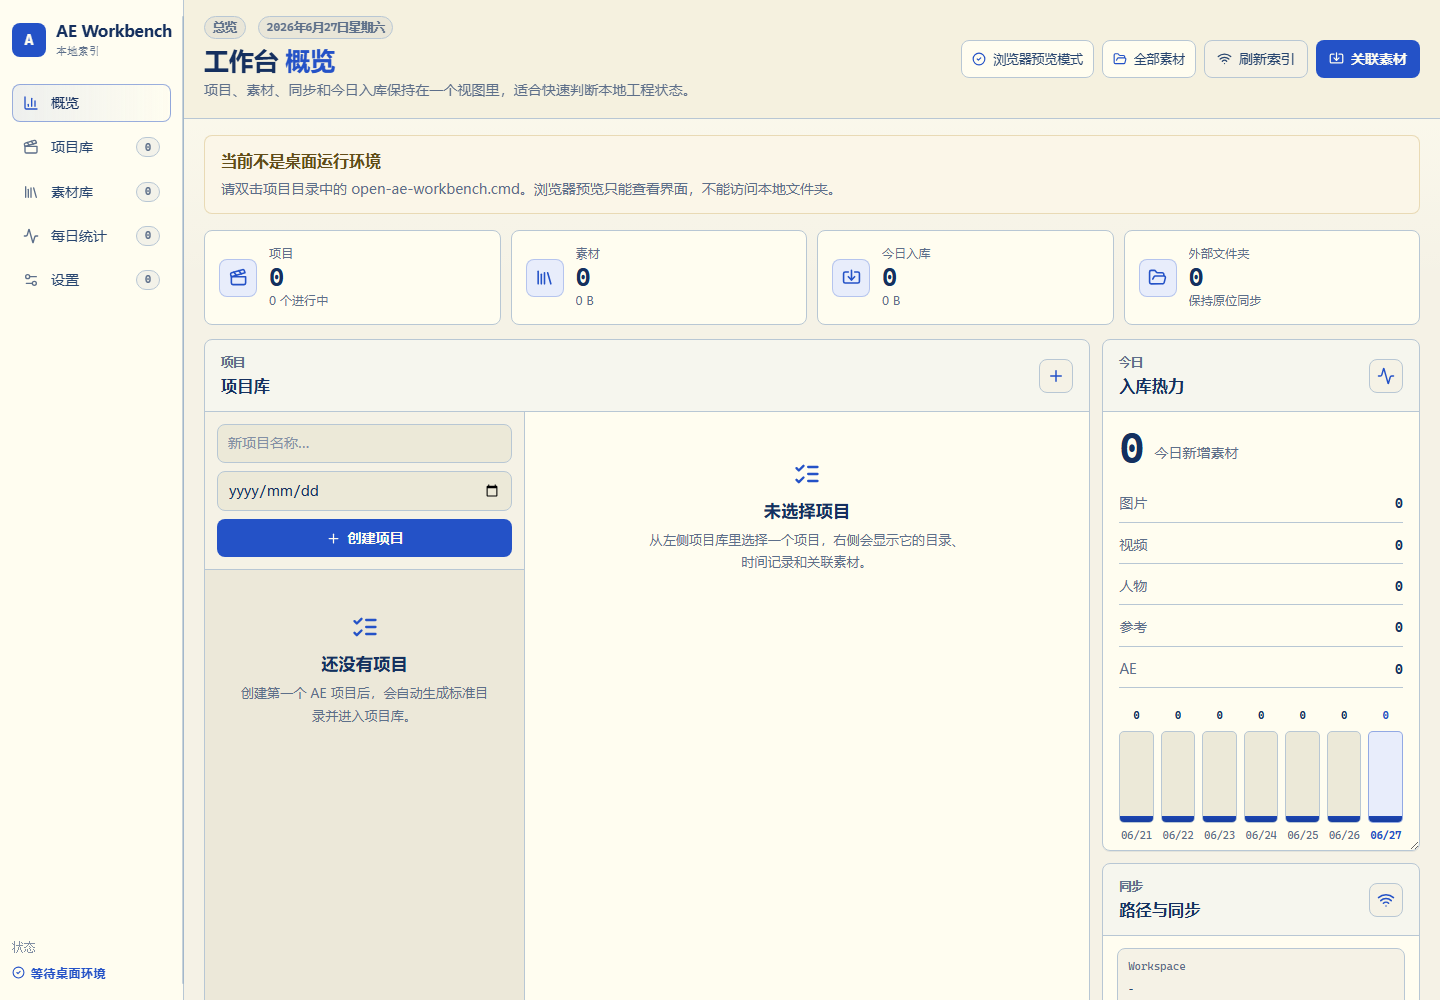
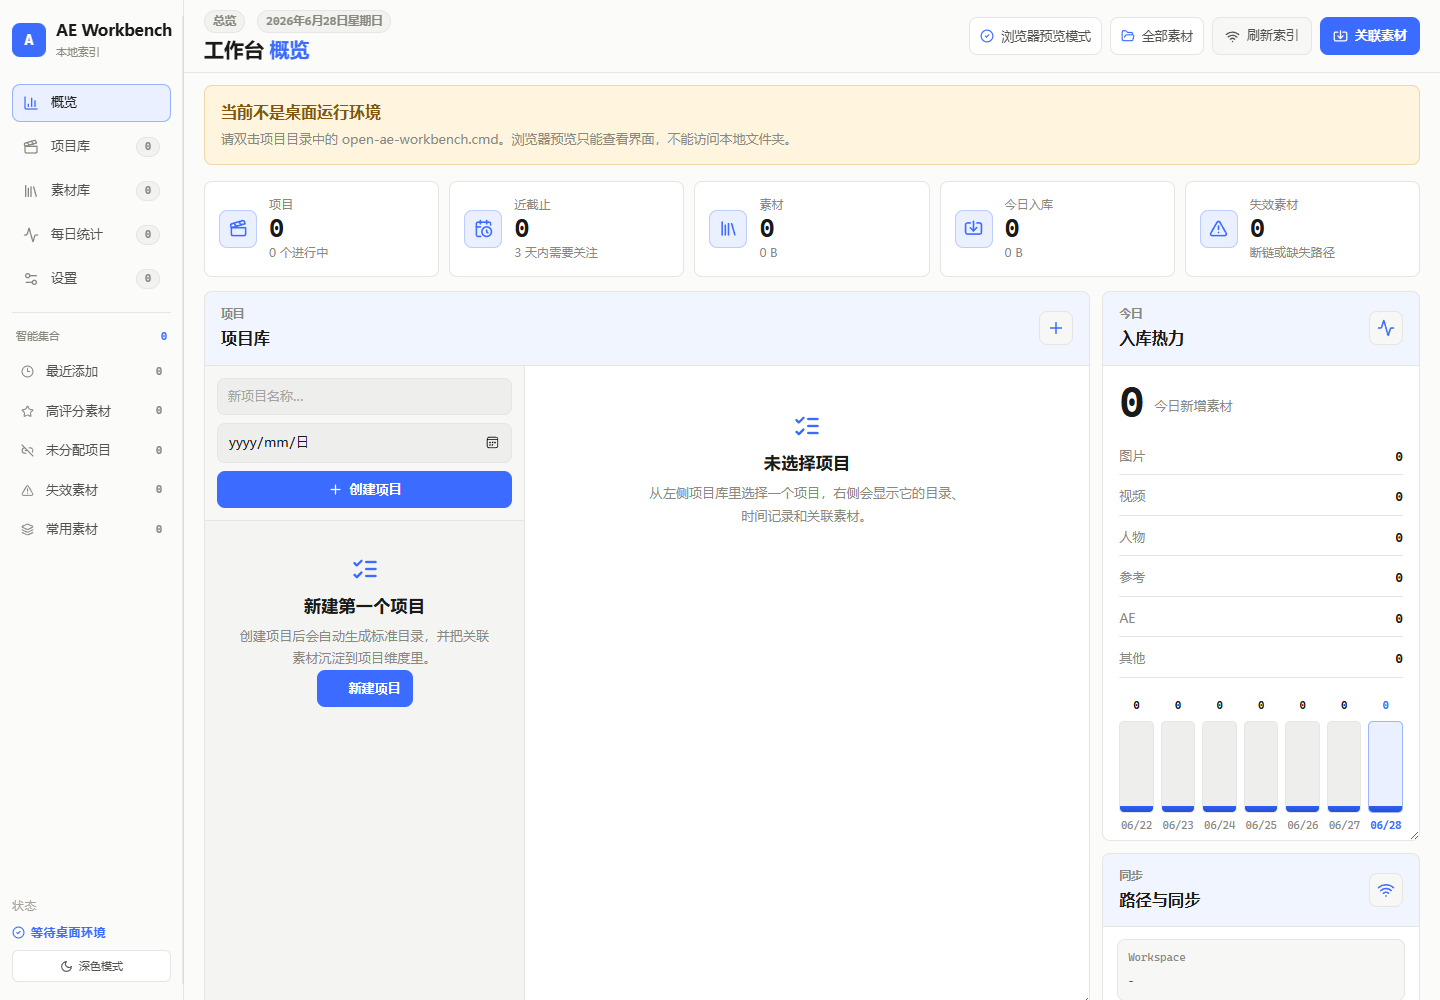
update readme homepage

diff --git a/README.md b/README.md
@@ -3,20 +3,31 @@
 [![CI](https://github.com/Saidyo/ae-workbench/actions/workflows/ci.yml/badge.svg)](https://github.com/Saidyo/ae-workbench/actions/workflows/ci.yml)
 [![License: MIT](https://img.shields.io/badge/License-MIT-green.svg)](LICENSE)
 
-AE Workbench 是一个面向 After Effects 创作者的本地桌面工作台，用来统一管理 AE 项目、人物立绘、图片素材、视频素材、音频、PSD、模板、交付文件和 Eagle 素材库信息。
+AE Workbench 是一个面向 After Effects 创作者的本地桌面工作台，也是一层轻量的「项目记忆层」：它帮你记住每个项目引用了哪些素材、哪些素材曾经用在哪些项目里，以及素材库最近发生了什么变化。
 
 它的设计目标是“本地优先”：素材仍然留在你的电脑里，系统只记录文件路径、分类、标签、时间、项目关联和预览信息，不会上传素材，也不会移动或修改 Eagle 原始文件。
 
 ![AE Workbench 界面预览](docs/images/ae-workbench-overview.png)
 
+## 最新版本
+
+当前版本：`0.3.0`
+
+Windows 用户可以直接下载 GitHub Release 中的安装器：
+
+[下载 AE Workbench 0.3.0](https://github.com/Saidyo/ae-workbench/releases/tag/v0.3.0)
+
 ## 功能特性
 
 - 创建并管理 AE 项目目录。
 - 索引 `Library/`、`Projects/` 和外部关联文件夹中的本地素材。
-- 在素材库中直接预览图片和视频。
+- 在素材库中直接预览图片和视频，长图、竖图和横图都能完整查看。
 - 将文件或文件夹关联到指定 AE 项目。
+- 在素材详情中查看“被哪些项目引用”，把素材和项目关系串起来。
 - 将素材导入当前项目，并按素材类型归入对应目录。
-- 统计每日入库数量和最近素材增长趋势。
+- 通过智能集合快速查看最近添加、高评分、未分配、失效和常用素材。
+- 统计每日入库数量，并修复 PSD、模板、其他类型的统计守恒。
+- 对本地索引做原子写入、备份回滚和断链检测，降低数据损坏风险。
 - 支持通过 Eagle 本地 API 或手动选择 `.library` 文件夹同步 Eagle 信息。
 - Eagle 同步保持只读，不写回、不移动、不删除、不复制 Eagle 原始文件。
 
@@ -114,7 +125,7 @@ node_modules/
 | --- | --- |
 | `npm run dev` | 启动 Vite 和 Electron 开发环境 |
 | `npm run build` | 构建 Electron 主进程和前端界面 |
-| `npm run dist:win` | 生成 Windows 绿色版发布压缩包 |
+| `npm run dist:win` | 生成 Windows NSIS 安装器 |
 | `npm run typecheck` | 运行 TypeScript 类型检查 |
 
 ## 文档